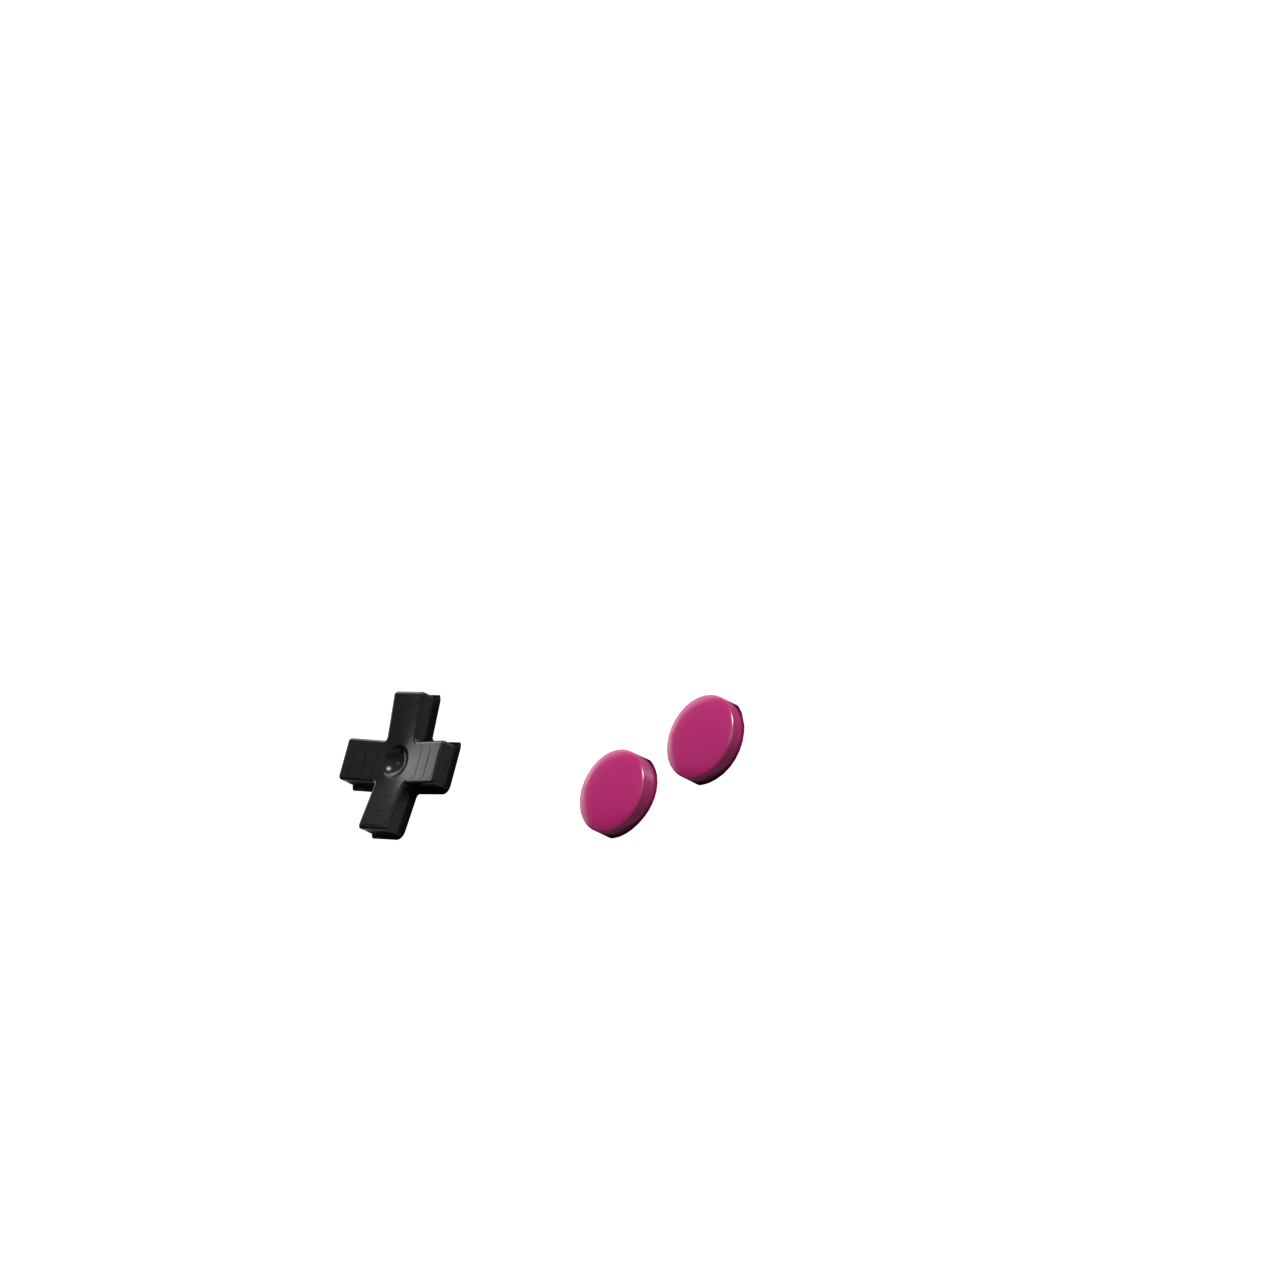
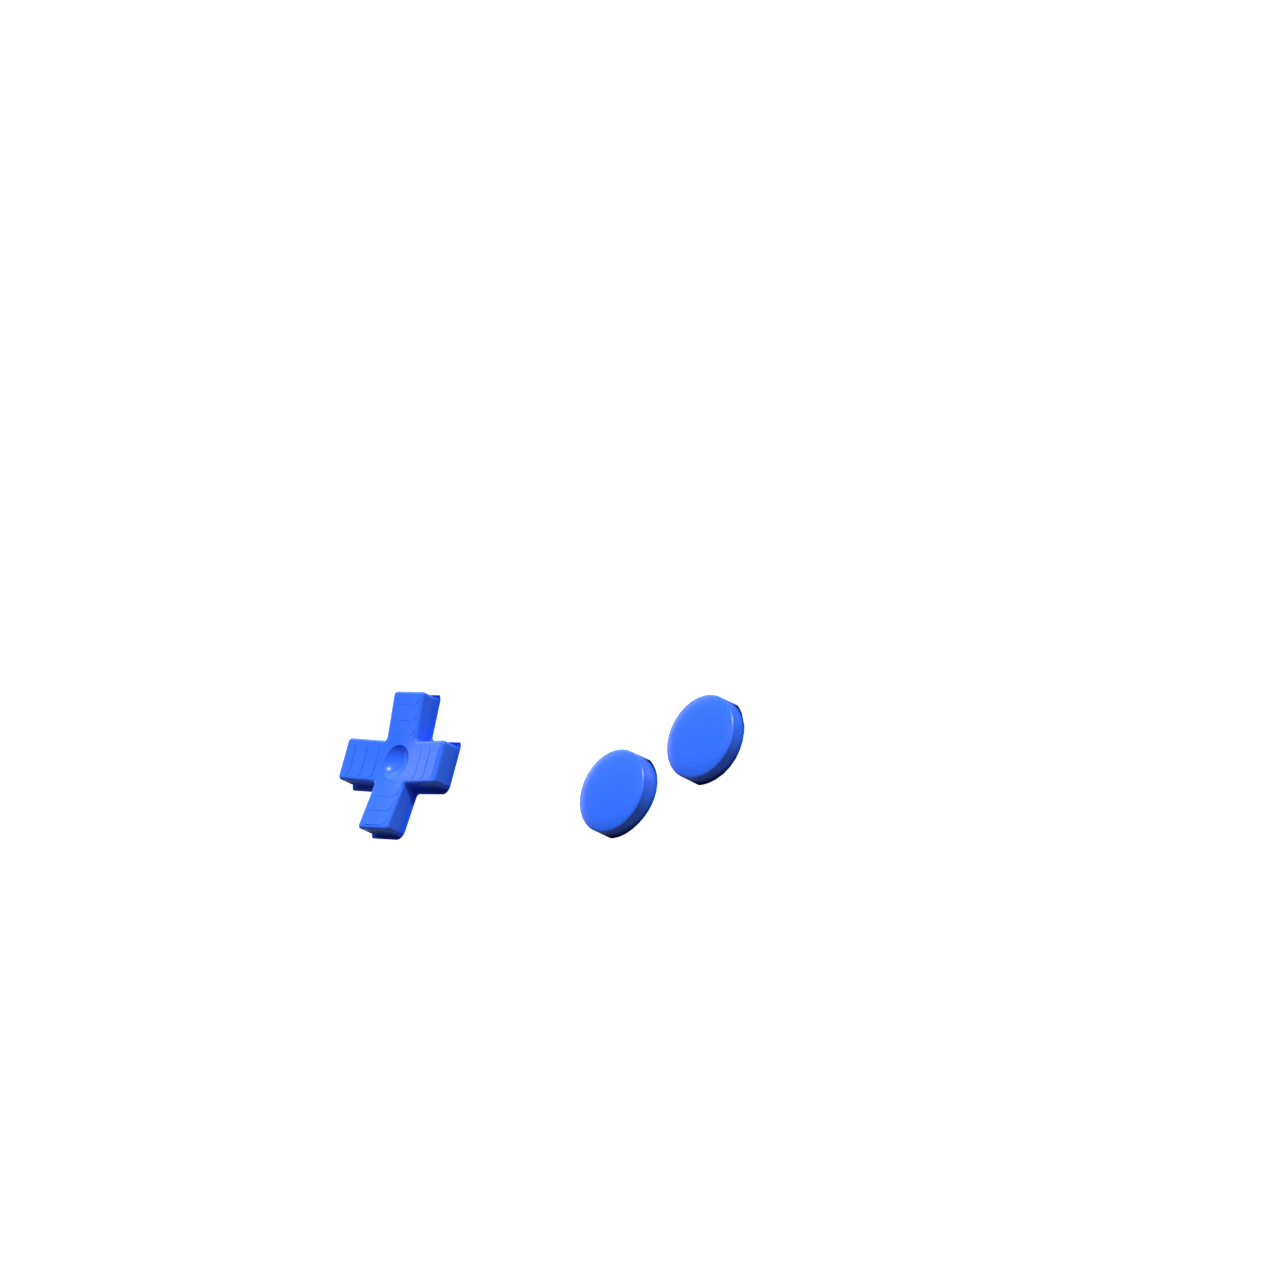
Coque arrière bouton et message a changer

Changed region(s): [[0.4375, 0.5312, 0.5938, 0.6562], [0.25, 0.5312, 0.375, 0.6562]]

diff --git a/src/pages/Personnalisation.jsx b/src/pages/Personnalisation.jsx
@@ -5,11 +5,46 @@ import Game1 from '../image/Gameboy_DMG/DMG_0.png';
 import Game2 from '../image/Gameboy_DMG/DMG_1.png';
 import Game3 from '../image/Gameboy_DMG/DMG_2.png';
 import Game4 from '../image/Gameboy_DMG/DMG_3.png';
+import Game5 from '../image/Gameboy_DMG/DMG_4.png';
+import Game6 from '../image/Gameboy_DMG/DMG_5.png';
+import Game7 from '../image/Gameboy_DMG/DMG_6.png';
+import Game8 from '../image/Gameboy_DMG/DMG_7.png';
+import Game9 from '../image/Gameboy_DMG/DMG_8.png';
+import Game10 from '../image/Gameboy_DMG/DMG_9.png';
+import Game11 from '../image/Gameboy_DMG/DMG_10.png';
+import Game12 from '../image/Gameboy_DMG/DMG_12.png';
+
 
 // Import bouton
-import BP1 from '../image/Gameboy_DMG/BP_1.png';
-import BP2 from '../image/Gameboy_DMG/BP_2.png';
-import BP3 from '../image/Gameboy_DMG/BP_3.png';
+import BP1 from '../image/Gameboy_DMG/BP_0.png';
+import BP2 from '../image/Gameboy_DMG/BP_1.png';
+import BP3 from '../image/Gameboy_DMG/BP_2.png';
+import BP4 from '../image/Gameboy_DMG/BP_3.png';
+import BP5 from '../image/Gameboy_DMG/BP_4.png';
+import BP6 from '../image/Gameboy_DMG/BP_5.png';
+import BP7 from '../image/Gameboy_DMG/BP_6.png';
+import BP8 from '../image/Gameboy_DMG/BP_7.png';
+import BP9 from '../image/Gameboy_DMG/BP_8.png';
+import BP10 from '../image/Gameboy_DMG/BP_9.png';
+import BP11 from '../image/Gameboy_DMG/BP_10.png';
+import BP12 from '../image/Gameboy_DMG/BP_12.png';
+
+
+// Import coque arrière
+import DMG_B0 from '../image/Gameboy_DMG/DMG_B0.png';
+import DMG_B1 from '../image/Gameboy_DMG/DMG_B1.png';
+import DMG_B2 from '../image/Gameboy_DMG/DMG_B2.png';
+import DMG_B3 from '../image/Gameboy_DMG/DMG_B3.png';
+import DMG_B4 from '../image/Gameboy_DMG/DMG_B4.png';
+import DMG_B5 from '../image/Gameboy_DMG/DMG_B5.png';
+import DMG_B6 from '../image/Gameboy_DMG/DMG_B6.png';
+import DMG_B7 from '../image/Gameboy_DMG/DMG_B7.png';
+import DMG_B8 from '../image/Gameboy_DMG/DMG_B8.png';
+import DMG_B10 from '../image/Gameboy_DMG/DMG_B10.png';
+import DMG_B11 from '../image/Gameboy_DMG/DMG_B11.png';
+import DMG_B12 from '../image/Gameboy_DMG/DMG_B12.png';
+import DMG_B13 from '../image/Gameboy_DMG/DMG_B13.png';
+
 
 // Le reste
 import Shadow from '../image/Gameboy_DMG/SHADOW.png';
@@ -21,21 +56,66 @@ import Screen from '../image/Gameboy_DMG/Screen.png'
 const Perso = () => {
   const [mainImages, setMainImages] = useState(Game1);
   const [bpImages, setBpImages] = useState(BP1);
-
+  const [dmgbImages, setDmgbImages] = useState(DMG_B0);
+  const [panier, setPanier] = useState([]);
+  
   // list coque
   const coqueimg = [
-    { src: Game1, className: "bp-base coque-0" },
-    { src: Game2, className: "bp-base coque-bleu" },
-    { src: Game3, className: "bp-base coque-violet" },
-    { src: Game4, className: "bp-base coque-jaune" },
+    { src: Game1, className: "bp-base coque-0", message: " Game1" },
+    { src: Game2, className: "bp-base coque-bleu", message: " Game2" },
+    { src: Game3, className: "bp-base coque-violet", message: " Game3" },
+    { src: Game4, className: "bp-base coque-jaune", message: " Game4" },
+    { src: Game5, className: "bp-base coque-bleu-verre", message: "Game5" },
+    { src: Game6, className: "bp-base coque-cyan-verre", message: "Game6" },
+    { src: Game7, className: "bp-base coque-verre", message: "Game7" },
+    { src: Game8, className: "bp-base coque-orange-verre", message: "Game8" },
+    { src: Game9, className: "bp-base coque-red-verre", message: "Mame9" },
+    { src: Game10, className: "bp-base coque-turquoise-verre", message: "Game10" },
+    { src: Game11, className: "bp-base coque-green", message: "Game11" },
+    { src: Game12, className: "bp-base coque-white", message: "Game12" },
   ];
 
   // list bp
   const bpimages = [
-    { src: BP1, className: "bp-base BP0" },
-    { src: BP2, className: "bp-base BP-orange" },
-    { src: BP3, className: "bp-base BP-red" },
+    { src: BP1, className: "bp-base BP0", message: "BP1" },
+    { src: BP12, className: "bp-base BP-bleu", message: "BP12" },
+    { src: BP2, className: "bp-base BP-orange", message: "BP2" },
+    { src: BP3, className: "bp-base BP-red", message: "BP3" },
+    { src: BP4, className: "bp-base BP-black", message: "BP4" },
+    { src: BP5, className: "bp-base BP-rose", message: " BP5" },
+    { src: BP6, className: "bp-base BP-black-verre", message: "BP6" },
+    { src: BP7, className: "bp-base BP-bleu-verre", message: " BP7" },
+    { src: BP8, className: "bp-base BP-green-verre", message: "BP8" },
+    { src: BP9, className: "bp-base BP-orange-verre", message: " BP9" },
+    { src: BP10, className: "bp-base BP-verre", message: "BP10" },
+    { src: BP11, className: "bp-base BP-white", message: " BP11" },
   ];
+
+  // list dmg
+  const dmgbimg = [
+    { src: DMG_B0, className: "bp-base DMG_B0", message: "DMG_B0" },
+    { src: DMG_B1, className: "bp-base DMG_B1", message: "DMG_B1" },
+    { src: DMG_B2, className: "bp-base DMG_B2", message: "DMG_B2" },
+    { src: DMG_B3, className: "bp-base DMG_B3", message: "DMG_B3" },
+    { src: DMG_B4, className: "bp-base DMG_B4", message: "DMG_B4" },
+    { src: DMG_B5, className: "bp-base DMG_B5", message: "DMG_B5" },
+    { src: DMG_B6, className: "bp-base DMG_B6", message: "DMG_B6" },
+    { src: DMG_B7, className: "bp-base DMG_B7", message: "DMG_B7" },
+    { src: DMG_B8, className: "bp-base DMG_B8", message: "DMG_B8" },
+    { src: DMG_B10, className: "bp-base DMG_B10", message: " DMG_B10" },
+    { src: DMG_B11, className: "bp-base DMG_B11", message: " DMG_B11" },
+    { src: DMG_B12, className: "bp-base DMG_B12", message: "DMG_B12" },
+    { src: DMG_B13, className: "bp-base DMG_B13", message: "DMG_B13" },
+  ];
+
+const ajoutepanier = () => {
+  const nouvitem = {
+    bp: bpImages,
+    coque: coqueimg,
+  };
+  setPanier([...panier, nouvitem]);
+};
+
 
   return (
     <body>
@@ -67,9 +147,16 @@ const Perso = () => {
           <p>Coque arrière</p>
           <hr width="250px" align="left" />
           <ul>
-            <li></li>
-            <li></li>
-            <li></li>
+            <li>
+              {dmgbimg.map((image, index) => (
+                <button
+                  key={index}
+                  className={image.className}
+                  onClick={() => setDmgbImages(image.src)}
+                  
+                ></button>  
+              ))}
+            </li>
           </ul>
           <p>BOUTONS</p>
           <hr width="250px" align="left" />
@@ -98,6 +185,12 @@ const Perso = () => {
           <hr width="250px" align="left"></hr>
           <p>ACCESSOIRES</p>
           <hr width="250px" align="left"></hr>
+          <ul>
+            <li></li>
+            <li></li>
+            <li></li>
+          </ul>
+          <button className="panier" onClick={ajoutepanier}>Ajouter au panier</button>
         </div>
         <div className="pc2">
           <img id="img1" className="superpose" src={mainImages} />
@@ -105,9 +198,10 @@ const Perso = () => {
           <img id="img3" className="superpose" src={Shadow} />
           <img id="img4" className="superpose" src={bpImages} />
           <img id="img5" className="superpose" src={Start} />
+          <img id="img6" className="superpose" src={dmgbImages}/> 
         </div>
       </section>
-
+              
       <section class="section-bleu">
       <h1>Utilisation</h1>
       </section>
